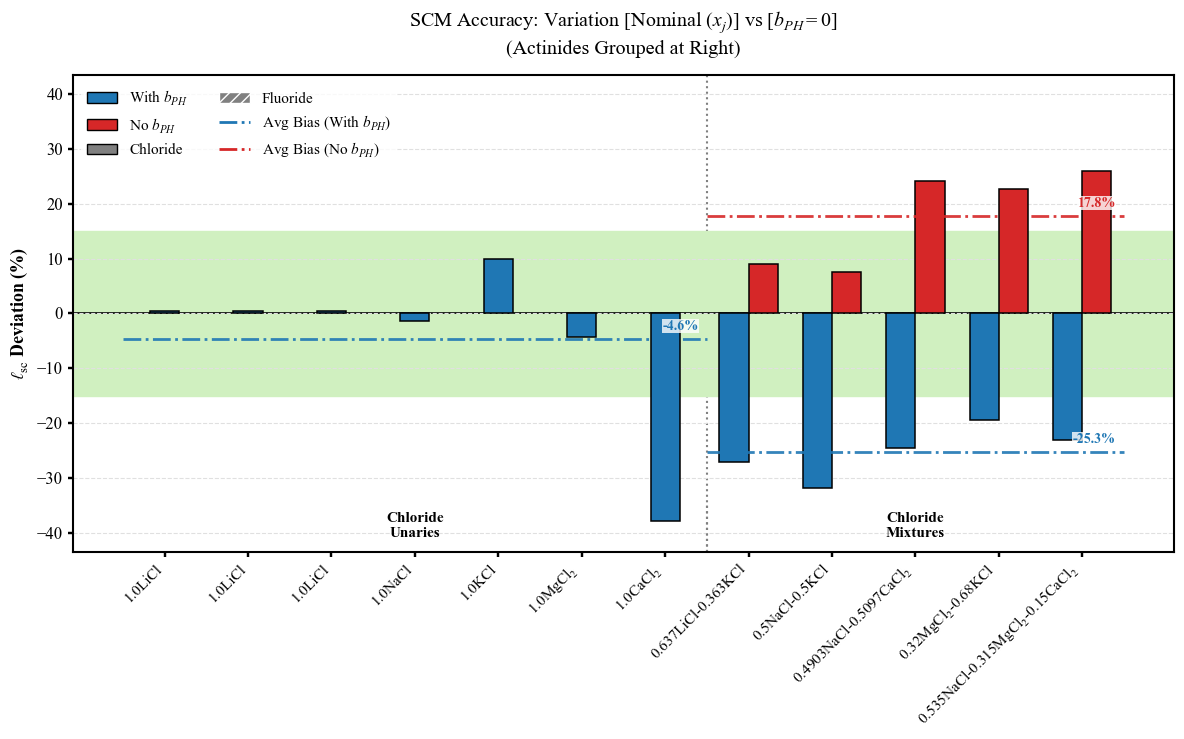
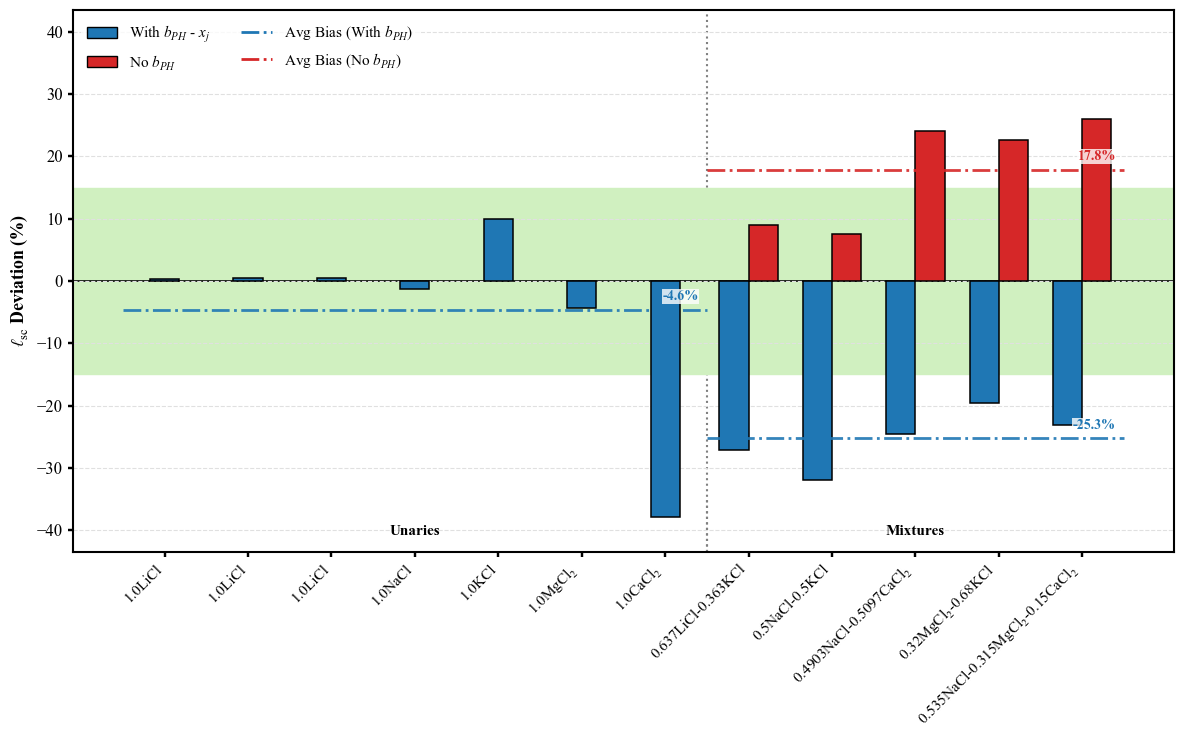
Added salts for VDOS comparison

diff --git a/Structural_Coherence_Length/comparison_bPH.py b/Structural_Coherence_Length/comparison_bPH.py
@@ -93,6 +93,31 @@ def plot_all_bph_variations(csv_file="SCL_results.csv"):
         'Oa': 'Anion VDOS ($O_a$)'
     }
 
+    # Short symbol identifying the b_PH method used for each variation.
+    # These are attached to the 'With b_PH' legend entry so the ablation
+    # variable shown in the plot is unambiguous.
+    bph_symbols = {
+        '1': r'$x_j$',
+        'Lc': r'$L_c$',
+        'Lq': r'$L_q$',
+        'Oa': r'$O_a$'
+    }
+
+    # ---------------------------------------------------------
+    # Check whether the dataset contains only one salt family
+    # (only chlorides or only fluorides). If so, the Chloride /
+    # Fluoride distinction is meaningless and is removed from
+    # both the bars (hatching) and the legend.
+    # ---------------------------------------------------------
+    def get_family(comp):
+        return 'Fluoride' if ('F' in comp and 'Cl' not in comp) else 'Chloride'
+
+    families_present = sorted(set(df['Composition'].apply(get_family)))
+    both_families = len(families_present) > 1
+    if not both_families:
+        print(f"Only {families_present[0]} salts present - removing the "
+              f"Fluoride/Chloride distinction from the plots and legend.")
+
     for var_key, var_title in variations.items():
         col_name = f'Avg SCL_{var_key} (A)'
         if col_name not in df.columns:
@@ -124,42 +149,45 @@ def plot_all_bph_variations(csv_file="SCL_results.csv"):
         # ------------------------------------------------
 
         for i, raw_label in enumerate(raw_labels):
-            family = 'Fluoride' if 'F' in raw_label and 'Cl' not in raw_label else 'Chloride'
+            family = get_family(raw_label)
             complexity = get_sort_key(raw_label)[1] # Complexity is the 2nd item in the sort key tuple
+            
+            # Hatching only encodes the Fluoride/Chloride distinction, so it is
+            # dropped when the dataset holds a single salt family.
+            hatched = both_families and family == 'Fluoride'
             
             # UNARY SALTS (Only plot the "With bPH" variant, centered)
             if complexity == 1:
-                if family == 'Fluoride':
-                    ax.bar(x[i], bph_errors[i], width, color='tab:blue', edgecolor='white', hatch='///', zorder=3)
+                ax.bar(x[i], bph_errors[i], width, color='tab:blue',
+                       edgecolor='white' if hatched else 'black',
+                       linewidth=1.1, hatch='///' if hatched else None, zorder=3)
+                if hatched:
                     ax.bar(x[i], bph_errors[i], width, color='none', edgecolor='black', linewidth=1.1, zorder=4)
-                else:
-                    ax.bar(x[i], bph_errors[i], width, color='tab:blue', edgecolor='black', linewidth=1.1, zorder=3)
             
             # MIXTURES (Plot Grouped Bars)
             else:
                 pos_bph = x[i] - width/2
                 pos_nobph = x[i] + width/2
                 
-                if family == 'Fluoride':
-                    # With bPH (Blue base, White Hatch, Black Edge)
-                    ax.bar(pos_bph, bph_errors[i], width, color='tab:blue', edgecolor='white', hatch='///', zorder=3)
+                # With bPH (Blue base, White Hatch when hatched, Black Edge)
+                ax.bar(pos_bph, bph_errors[i], width, color='tab:blue',
+                       edgecolor='white' if hatched else 'black',
+                       linewidth=1.1, hatch='///' if hatched else None, zorder=3)
+                
+                # No bPH (Red base, White Hatch when hatched, Black Edge)
+                ax.bar(pos_nobph, no_bph_errors[i], width, color='tab:red',
+                       edgecolor='white' if hatched else 'black',
+                       linewidth=1.1, hatch='///' if hatched else None, zorder=3)
+                
+                if hatched:
                     ax.bar(pos_bph, bph_errors[i], width, color='none', edgecolor='black', linewidth=1.1, zorder=4)
-                    
-                    # No bPH (Red base, White Hatch, Black Edge)
-                    ax.bar(pos_nobph, no_bph_errors[i], width, color='tab:red', edgecolor='white', hatch='///', zorder=3)
                     ax.bar(pos_nobph, no_bph_errors[i], width, color='none', edgecolor='black', linewidth=1.1, zorder=4)
-                else:
-                    # Solid Blue
-                    ax.bar(pos_bph, bph_errors[i], width, color='tab:blue', edgecolor='black', linewidth=1.1, zorder=3)
-                    # Solid Red
-                    ax.bar(pos_nobph, no_bph_errors[i], width, color='tab:red', edgecolor='black', linewidth=1.1, zorder=3)
         
         # Formatting Y-Axis
         max_err = max(np.max(np.abs(bph_errors)), np.max(np.abs(no_bph_errors)))
         y_lim = max(max_err * 1.15, 20)
         ax.set_ylim(-y_lim, y_lim)
         ax.set_ylabel(r'$\ell_{{\mathrm{{sc}}}}$ Deviation (%)')
-        ax.set_title(f'SCM Accuracy: Variation [{var_title}] vs [$b_{{PH}}=0$]\n(Actinides Grouped at Right)', pad=15)
         
         # Formatting X-Axis
         ax.set_xticks(x)
@@ -171,7 +199,11 @@ def plot_all_bph_variations(csv_file="SCL_results.csv"):
         def assign_group(comp):
             has_act, comp_len = get_sort_key(comp)[:2]
             if has_act == 1: return "Actinide"
-            is_f = 'F' in comp and 'Cl' not in comp
+            # When only one salt family is present there is no point in
+            # labelling the groups by anion, so use plain Unary/Mixture names
+            if not both_families:
+                return "Unaries" if comp_len == 1 else "Mixtures"
+            is_f = get_family(comp) == 'Fluoride'
             if comp_len == 1 and is_f: return "Fluoride\nUnaries"
             if comp_len == 1 and not is_f: return "Chloride\nUnaries"
             if comp_len > 1 and is_f: return "Fluoride\nMixtures"
@@ -221,12 +253,22 @@ def plot_all_bph_variations(csv_file="SCL_results.csv"):
         
         ax.grid(axis='y', linestyle='--', color='#E0E0E0', zorder=0)
 
-        # Create Custom Legend
+        # Create Custom Legend ('With b_PH' is tagged with the ablation symbol)
         custom_legend = [
-            Patch(facecolor='tab:blue', edgecolor='black', label=r'With $b_{PH}$'),
-            Patch(facecolor='tab:red', edgecolor='black', label=r'No $b_{PH}$'),
-            Patch(facecolor='gray', edgecolor='black', label='Chloride'),
-            Patch(facecolor='gray', edgecolor='white', hatch='///', label='Fluoride'),
+            Patch(facecolor='tab:blue', edgecolor='black',
+                  label=rf'With $b_{{PH}}$ - {bph_symbols[var_key]}'),
+            Patch(facecolor='tab:red', edgecolor='black', label=r'No $b_{PH}$')
+        ]
+        
+        # The Fluoride/Chloride entries are only meaningful when both families
+        # are present in the dataset
+        if both_families:
+            custom_legend += [
+                Patch(facecolor='gray', edgecolor='black', label='Chloride'),
+                Patch(facecolor='gray', edgecolor='white', hatch='///', label='Fluoride')
+            ]
+        
+        custom_legend += [
             Line2D([0], [0], color='tab:blue', lw=2, linestyle='-.', label=r'Avg Bias (With $b_{PH}$)'),
             Line2D([0], [0], color='tab:red', lw=2, linestyle='-.', label=r'Avg Bias (No $b_{PH}$)')
         ]
@@ -239,7 +281,7 @@ def plot_all_bph_variations(csv_file="SCL_results.csv"):
         output_filename = f'Structural_Coherence_Length/SCL_Summary_Deviation_bPH_{var_key}.png'
         os.makedirs('Structural_Coherence_Length', exist_ok=True)
         plt.savefig(output_filename, bbox_inches='tight')
-        print(f"Saved comparison plot to {output_filename}")
+        print(f"Saved comparison plot for [$b_{{PH}}$ = {var_title}] to {output_filename}")
         plt.close(fig)
 
 if __name__ == "__main__":

diff --git a/Structural_Coherence_Length/SCL_calc.py b/Structural_Coherence_Length/SCL_calc.py
@@ -1080,7 +1080,7 @@ class MoltenSaltPDF:
     def _load_vdos_metrics(self):
         """Loads VDOS interaction metrics M from the CSV for the current salt system."""
         csv_path = os.path.join(get_scl_dir(), 'vdos_metrics_summary.csv')
-        self.vdos_metrics = {'L_classical': {}, 'L_quantum': {}, 'O_anionv': {}}
+        self.vdos_metrics = {'L_classical': {}, 'L_quantum': {}, 'O_anion_csv': {}}
         if not os.path.exists(csv_path):
             return
 
@@ -1101,17 +1101,25 @@ class MoltenSaltPDF:
                             
                             lc_col = f'{i}__L_classical__mean'
                             lq_col = f'{i}__L_quantum__mean'
-                            oa_col = f'{i}__O_anionv__mean'
+                            oa_col = f'{i}__O_anion_csv__mean'  # canonical name written by Pipeline/analyze_vdos.py
                             
                             if lc_col in row and pd.notna(row[lc_col]):
                                 self.vdos_metrics['L_classical'][pair_key] = float(row[lc_col])
                             if lq_col in row and pd.notna(row[lq_col]):
                                 self.vdos_metrics['L_quantum'][pair_key] = float(row[lq_col])
                             if oa_col in row and pd.notna(row[oa_col]):
-                                self.vdos_metrics['O_anionv'][pair_key] = float(row[oa_col])
+                                self.vdos_metrics['O_anion_csv'][pair_key] = float(row[oa_col])
                     break # Break early once the matching composition and temp are found
         except Exception as e:
             print(f"Warning: Could not load VDOS metrics correctly: {e}")
+
+        # A missing metric silently collapses that b_PH variation to 0 (identical
+        # to the b_PH = 0 case), so surface it instead of failing quietly.
+        if '-' in str(self.comp):
+            missing = [m for m, d in self.vdos_metrics.items() if not d]
+            if missing:
+                print(f"Warning: vdos_metrics_summary.csv has no {', '.join(missing)} values for "
+                      f"{self.comp} @ {self.temp} K - those b_PH variations default to 0.")
 
     # ------------------------------------------------------------------
     # Main analysis
@@ -1175,7 +1183,7 @@ class MoltenSaltPDF:
                 ph_vals['0'] += x_j * 0.0
                 ph_vals['Lc'] += x_j * (1 - self.vdos_metrics['L_classical'].get(pair_key, 1.0))
                 ph_vals['Lq'] += x_j * (1 - self.vdos_metrics['L_quantum'].get(pair_key, 1.0))
-                ph_vals['Oa'] += x_j * (1 - self.vdos_metrics['O_anionv'].get(pair_key, 1.0))
+                ph_vals['Oa'] += x_j * (1 - self.vdos_metrics['O_anion_csv'].get(pair_key, 1.0))
 
             for k in var_keys:
                 ph_vals[k] = np.clip(ph_vals[k], 0, 1)
